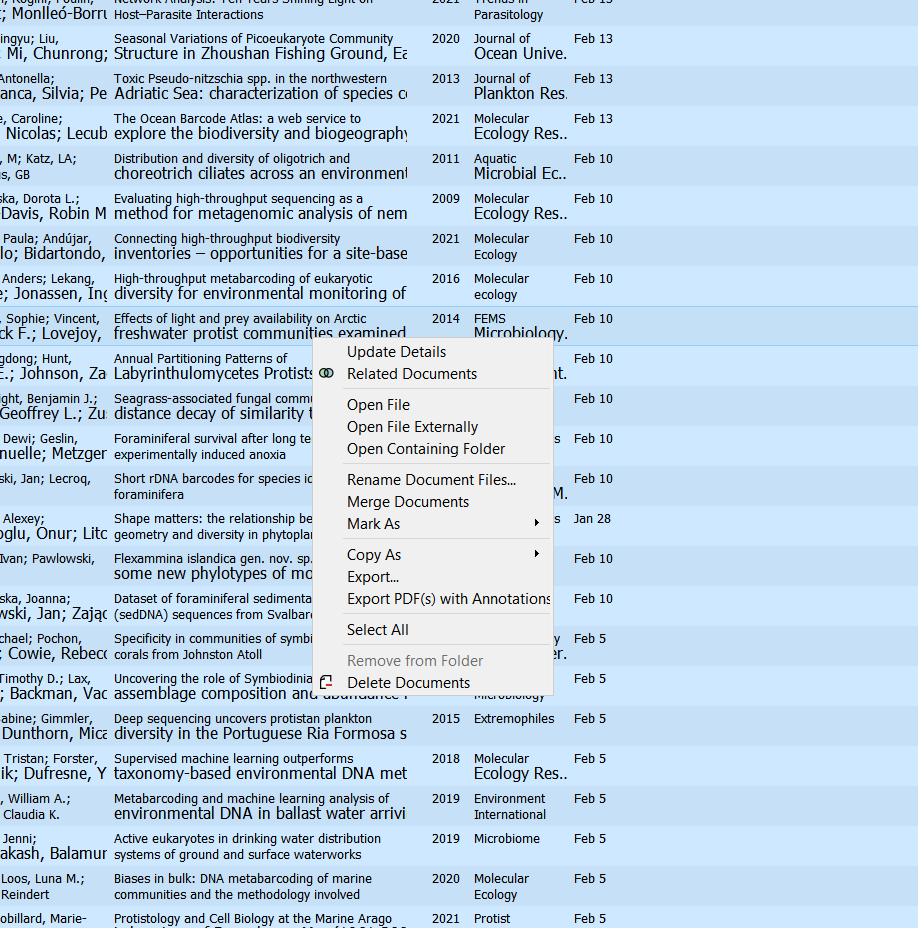
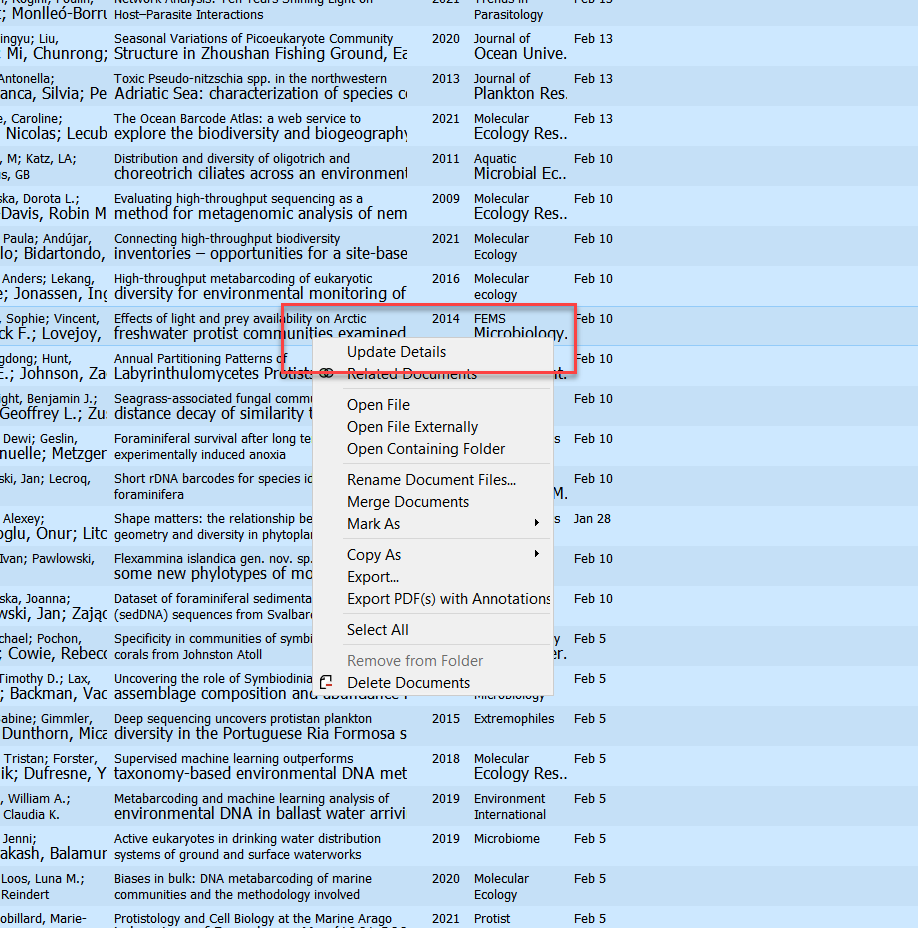
more

Changed region(s): [[0.305, 0.3125, 0.6405, 0.4375]]

diff --git a/content/post/2021-02-19-mendeley-to-zotero.md b/content/post/2021-02-19-mendeley-to-zotero.md
@@ -29,4 +29,7 @@ I have tried a couple of alternatives:
 * Install [Zotero and Chrome connectro](https://www.zotero.org/download/)
 * Install [DOI plugin](https://github.com/bwiernik/zotero-shortdoi) for managing DOIs.
 * Install [Zotfile plugin](http://zotfile.com/) to manage file.
-* [Configure Zotfile]() to be linked with Google drive (this way your files will be synchronized without having to pay for space on Zotero server)
+* [Configure Zotfile](https://tomsaunders.co.nz/zotero-with-google-drive/#:~:text=Head%20over%20to%20Google%20Drive,to%20be%20on%20your%20PC.) to be linked with Google drive (this way your files will be synchronized without having to pay for space on Zotero server)
+* In Mendeley, select all your references, left click and press update (see image below). This will use the DOI to update all your Mendeley references.  Zotero lacks this capacity.
+
+{{< figure src="img/mendeley_update.png" title="Mendeley update references" >}}
